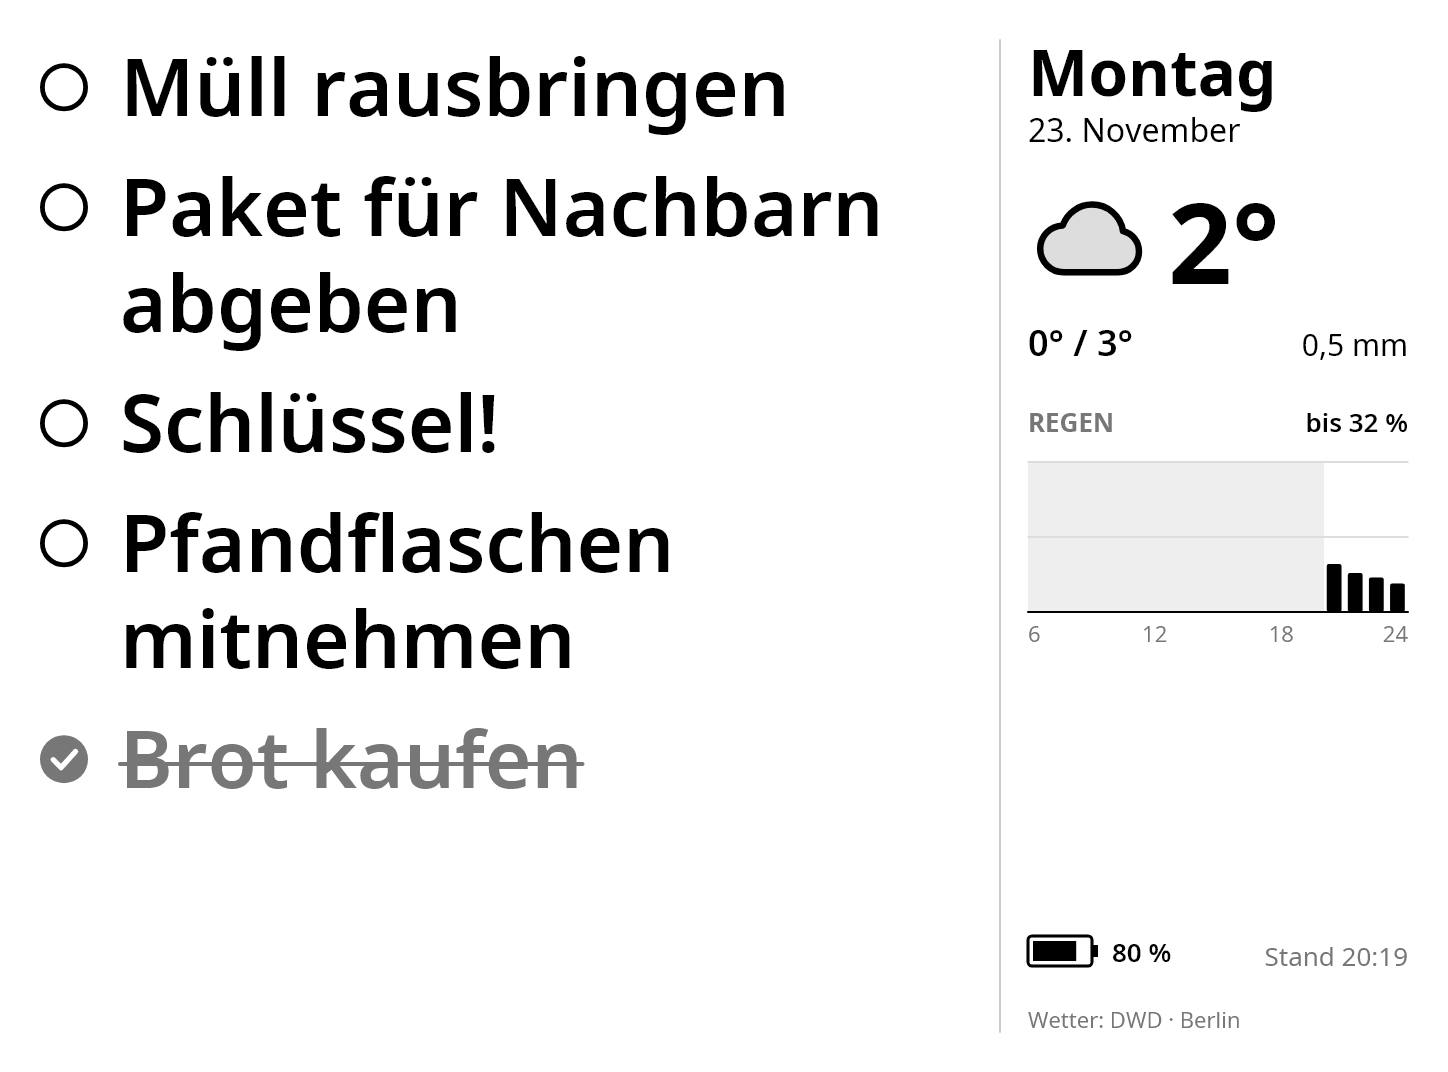
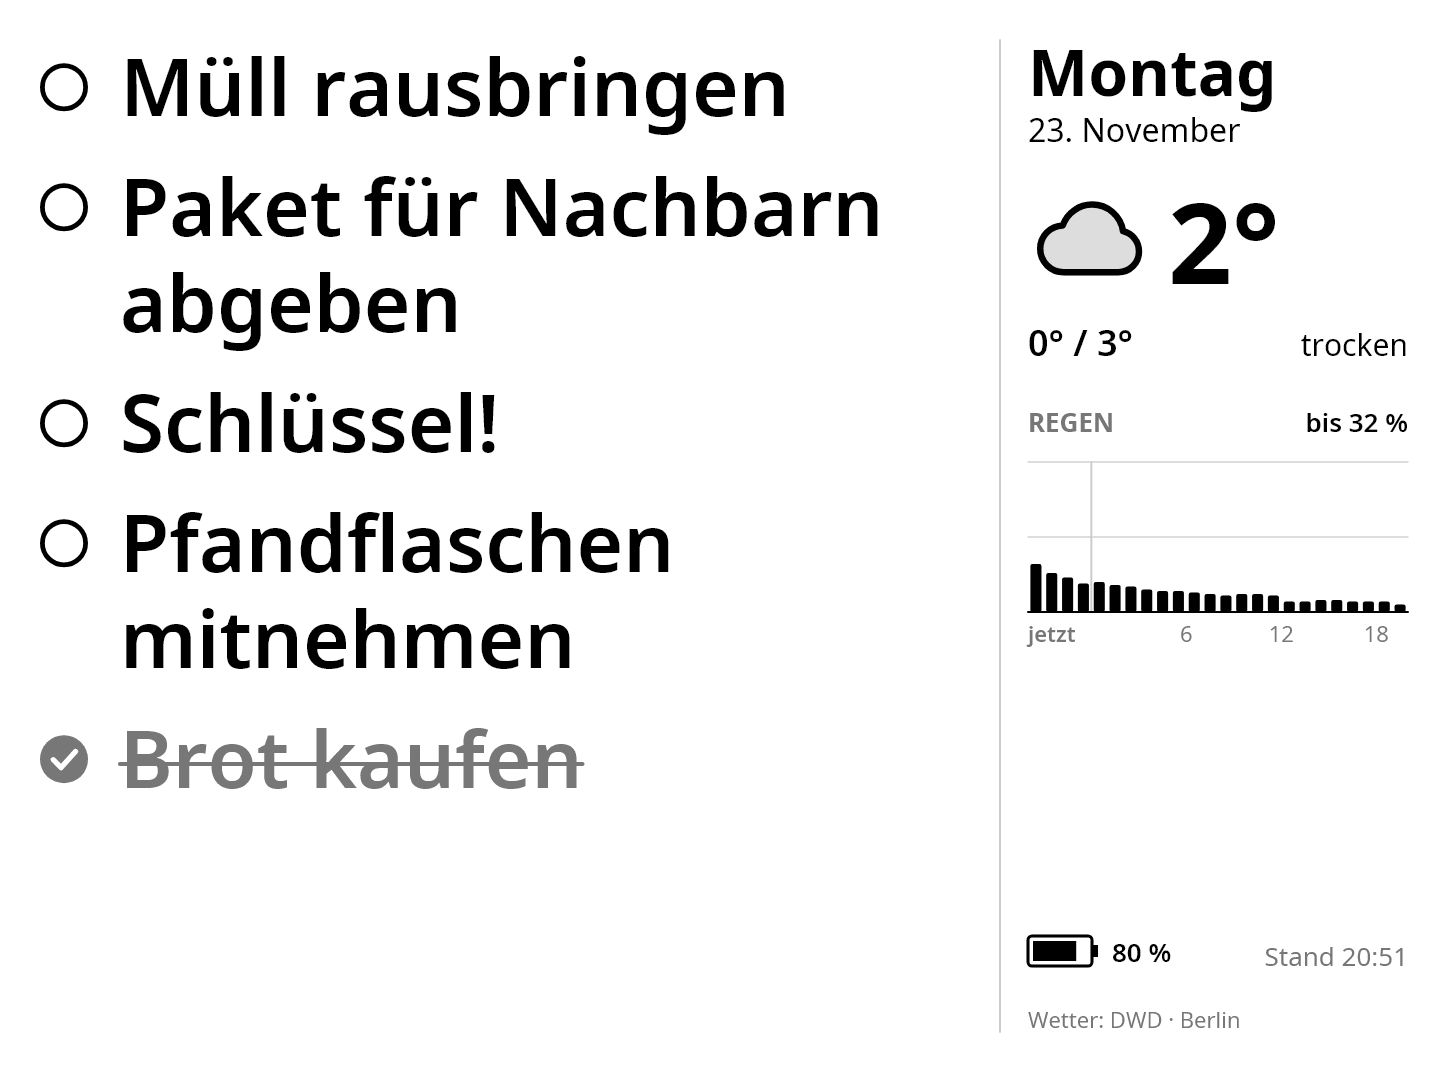
Show the rain of the next 24 hours instead of today
The rain chart starts with the current hour and reaches into tomorrow,
with a line at midnight. Bright Sky has the hourly forecast of the DWD
for several days, so the data is there.

Claude-Session: https://claude.ai/code/session_01JtiMjfkFmRwehLSQ8BAAtq

Changed region(s): [[0.6837, 0.5233, 0.9634, 0.6157], [0.9012, 0.3078, 0.9634, 0.3386]]

diff --git a/server/src/Dashboard/Renderer.cs b/server/src/Dashboard/Renderer.cs
@@ -13,10 +13,10 @@ public sealed record Zone(string Id, int X, int Y, int Width, int Height);
 public sealed record NoteLine(long Id, string Text, bool Done);
 
 /// <summary>Everything the picture shows. Two equal models give the same picture (apart from the time of drawing).</summary>
-/// <param name="Hour">Local hour, for the hours of the rain chart that are over</param>
+/// <param name="Hour">Start of the current hour, where the rain chart begins</param>
 public sealed record ScreenModel(
    DateOnly Date,
-   int Hour,
+   DateTimeOffset Hour,
    string PlaceName,
    WeatherData? Weather,
    List<NoteLine> Notes,
@@ -57,14 +57,13 @@ public sealed class Renderer {
    private static readonly float[] s_noteSizes = [104, 92, 80, 68, 60];
    private const int MaxLinesPerNote = 3;
    private const float LineSpacing = 1.2f;
-   /// <summary>Rain chart: one bar per hour from FirstHour to midnight</summary>
-   private const int FirstHour = 6;
+   /// <summary>Rain chart: one bar per hour, starting with the current one</summary>
+   private const int ChartHours = 24;
 
    private static readonly CultureInfo s_german = CultureInfo.GetCultureInfo("de-DE");
    private static readonly SKColor s_black = SKColors.Black;
    private static readonly SKColor s_grey = new(0x77, 0x77, 0x77);
    private static readonly SKColor s_light = new(0xCC, 0xCC, 0xCC);
-   private static readonly SKColor s_shade = new(0xEE, 0xEE, 0xEE);
 
    private readonly Orientation m_orientation;
    private readonly SKTypeface m_regular;
@@ -88,7 +87,7 @@ public sealed class Renderer {
 
       DrawNotes(canvas, model.Notes, zones);
       Line(canvas, Divider, Margin, Divider, Bottom, 2, s_light);
-      DrawSide(canvas, model, localNow);
+      DrawSide(canvas, model, localNow, zone);
       zones.Add(Zone("refresh", Divider, 0, Width - Divider, Height));
 
       using var landscape = surface.Snapshot();
@@ -180,7 +179,7 @@ public sealed class Renderer {
 
    // --- Day and weather ---
 
-   private void DrawSide(SKCanvas canvas, ScreenModel model, DateTime localNow) {
+   private void DrawSide(SKCanvas canvas, ScreenModel model, DateTime localNow, TimeZoneInfo zone) {
       const float x = SideX;
       const float right = SideX + SideWidth;
       var date = model.Date.ToDateTime(TimeOnly.MinValue);
@@ -202,7 +201,7 @@ public sealed class Renderer {
             var rain = today.Precipitation > 0 ? $"{today.Precipitation.ToString("0.#", s_german)} mm" : "trocken";
             Text(canvas, rain, right, line, 30, m_regular, s_black, SKTextAlign.Right);
          }
-         DrawRain(canvas, weather.Hours, model.Hour, x, line + 50, right);
+         DrawRain(canvas, weather.Hours, model.Hour, zone, x, line + 50, right);
       }
 
       // Foot of the column: battery, time of the picture, source of the weather
@@ -212,10 +211,13 @@ public sealed class Renderer {
       Text(canvas, Fit($"Wetter: DWD · {model.PlaceName}", SideWidth, 22, m_regular), x, Bottom - 4, 22, m_regular, s_grey);
    }
 
-   /// <summary>Small bar chart of the probability of rain, one bar per hour from FirstHour to midnight.</summary>
-   private void DrawRain(SKCanvas canvas, List<WeatherHour> hours, int nowHour, float x, float top, float right) {
+   /// <summary>Small bar chart of the probability of rain, one bar per hour for the next 24 hours.</summary>
+   private void DrawRain(SKCanvas canvas, List<WeatherHour> hours, DateTimeOffset start, TimeZoneInfo zone, float x, float top, float right) {
       const float chartHeight = 150;
-      var coming = hours.Where(hour => hour.Hour >= FirstHour && hour.Hour >= nowHour && hour.PrecipitationProbability is not null).ToList();
+      var coming = hours
+         .Select(hour => (Slot: (int)Math.Round((hour.Time - start).TotalHours), hour.PrecipitationProbability))
+         .Where(hour => hour.Slot is >= 0 and < ChartHours && hour.PrecipitationProbability is not null)
+         .ToList();
       var chartTop = Heading(canvas, "Regen", x, top) + 14;
       if (coming.Count > 0) {
          var highest = coming.Max(hour => hour.PrecipitationProbability!.Value);
@@ -223,26 +225,28 @@ public sealed class Renderer {
       }
 
       var baseline = chartTop + chartHeight;
-      var slot = (right - x) / (24 - FirstHour);
-      // The hours that are over are shaded
-      if (nowHour > FirstHour) {
-         using var shade = Fill(s_shade);
-         canvas.DrawRect(SKRect.Create(x, chartTop, (Math.Min(nowHour, 24) - FirstHour) * slot, chartHeight), shade);
-      }
-      // Grid: 100 % and 50 % light, the base line dark
+      var slot = (right - x) / ChartHours;
+      // Grid: 100 % and 50 % light, midnight as a line from top to bottom, the base line dark
       Line(canvas, x, chartTop, right, chartTop, 1, s_light);
       Line(canvas, x, chartTop + chartHeight / 2, right, chartTop + chartHeight / 2, 1, s_light);
+      for (var i = 1; i < ChartHours; i++) {
+         if (TimeZoneInfo.ConvertTime(start.AddHours(i), zone).Hour == 0)
+            Line(canvas, x + i * slot, chartTop, x + i * slot, baseline, 2, s_light);
+      }
       using (var bar = Fill(s_black)) {
-         foreach (var hour in coming) {
-            var height = Math.Max(3, chartHeight * Math.Clamp(hour.PrecipitationProbability!.Value, 0, 100) / 100f);
-            var left = x + (hour.Hour - FirstHour) * slot + slot * 0.15f;
-            canvas.DrawRoundRect(SKRect.Create(left, baseline - height, slot * 0.7f, height), 2, 2, bar);
+         foreach (var (index, probability) in coming) {
+            var height = Math.Max(3, chartHeight * Math.Clamp(probability!.Value, 0, 100) / 100f);
+            canvas.DrawRoundRect(SKRect.Create(x + index * slot + slot * 0.15f, baseline - height, slot * 0.7f, height), 2, 2, bar);
          }
       }
       Line(canvas, x, baseline, right, baseline, 2, s_black);
-      foreach (var hour in new[] { 6, 12, 18, 24 }) {
-         var align = hour == FirstHour ? SKTextAlign.Left : hour == 24 ? SKTextAlign.Right : SKTextAlign.Center;
-         Text(canvas, $"{hour}", x + (hour - FirstHour) * slot, baseline + 30, 22, m_regular, s_grey, align);
+
+      // "jetzt" at the start, then the full hours divisible by six, as far as they keep clear of it and of the end
+      Text(canvas, "jetzt", x, baseline + 30, 22, m_semiBold, s_grey);
+      for (var i = 5; i < ChartHours; i++) {
+         var local = TimeZoneInfo.ConvertTime(start.AddHours(i), zone).Hour;
+         if (local % 6 == 0)
+            Text(canvas, $"{local}", x + i * slot, baseline + 30, 22, m_regular, s_grey, SKTextAlign.Center);
       }
       if (coming.Count == 0)
          Text(canvas, "keine Angabe", (x + right) / 2, chartTop + chartHeight / 2 - 10, 26, m_regular, s_grey, SKTextAlign.Center);

diff --git a/server/src/Dashboard/Weather.cs b/server/src/Dashboard/Weather.cs
@@ -10,13 +10,15 @@ namespace Dashboard;
 public sealed record WeatherNow(double? Temperature, string? Icon, double? WindKmh, int? Humidity);
 /// <summary>Today as a whole. The probability of rain is the highest of the hours that have one.</summary>
 public sealed record WeatherToday(double? Min, double? Max, double Precipitation, int? PrecipitationProbability);
-/// <param name="Hour">Local hour of the day, 0 to 23</param>
+/// <param name="Time">Start of the hour</param>
 /// <param name="PrecipitationProbability">Only for hours of the forecast, null for hours that are already over</param>
-public sealed record WeatherHour(int Hour, int? PrecipitationProbability);
+public sealed record WeatherHour(DateTimeOffset Time, int? PrecipitationProbability);
 public sealed record WeatherData(DateTimeOffset FetchedAt, WeatherNow Now, WeatherToday? Today, List<WeatherHour> Hours);
 
 /// <summary>Fetches the weather every 30 minutes and whenever the place changes.</summary>
 public sealed class WeatherService(IHttpClientFactory httpClients, Store store, ILogger<WeatherService> logger) : BackgroundService {
+   /// <summary>Hours from the current one on. A day for the chart and some more, because the data is fetched only every 30 minutes.</summary>
+   public const int HoursAhead = 30;
    public const string BaseUrl = "https://api.brightsky.dev/";
    private static readonly TimeSpan s_interval = TimeSpan.FromMinutes(30);
    private static readonly TimeSpan s_retry = TimeSpan.FromMinutes(5);
@@ -68,17 +70,18 @@ public sealed class WeatherService(IHttpClientFactory httpClients, Store store, 
          Number(now, "wind_speed_10") ?? Number(now, "wind_speed_30") ?? Number(now, "wind_speed_60"),
          (int?)Number(now, "relative_humidity"));
 
-      // Only today: the hours from midnight to midnight, local time
-      var range = $"date={today:yyyy-MM-dd}&last_date={today.AddDays(1):yyyy-MM-dd}&tz={Uri.EscapeDataString(settings.TimeZone)}";
+      // Today from midnight on and the hours ahead, which reach into tomorrow
+      var range = $"date={today:yyyy-MM-dd}&last_date={today.AddDays(3):yyyy-MM-dd}&tz={Uri.EscapeDataString(settings.TimeZone)}";
       using var forecast = JsonDocument.Parse(await client.GetStringAsync($"weather?{place}&{range}", cancellation));
-      var hours = new List<(DateTime Local, double? Temperature, double? Precipitation, int? Probability)>();
+      var all = new List<(DateTimeOffset Time, double? Temperature, double? Precipitation, int? Probability)>();
       foreach (var hour in forecast.RootElement.GetProperty("weather").EnumerateArray()) {
-         var time = DateTimeOffset.Parse(hour.GetProperty("timestamp").GetString()!, CultureInfo.InvariantCulture);
-         var local = TimeZoneInfo.ConvertTime(time, zone).DateTime;
-         if (DateOnly.FromDateTime(local) != today)
-            continue;
-         hours.Add((local, Number(hour, "temperature"), Number(hour, "precipitation"), (int?)Number(hour, "precipitation_probability")));
+         all.Add((
+            DateTimeOffset.Parse(hour.GetProperty("timestamp").GetString()!, CultureInfo.InvariantCulture),
+            Number(hour, "temperature"),
+            Number(hour, "precipitation"),
+            (int?)Number(hour, "precipitation_probability")));
       }
+      var hours = all.Where(hour => DateOnly.FromDateTime(TimeZoneInfo.ConvertTime(hour.Time, zone).DateTime) == today).ToList();
 
       WeatherToday? summary = null;
       if (hours.Count > 0) {
@@ -89,14 +92,14 @@ public sealed class WeatherService(IHttpClientFactory httpClients, Store store, 
             hours.Sum(hour => hour.Precipitation ?? 0),
             hours.Max(hour => hour.Probability));
       }
-      // One value per hour; the hour that is there twice when the clocks go back keeps the higher one
-      var byHour = hours
-         .GroupBy(hour => hour.Local.Hour)
-         .OrderBy(group => group.Key)
-         .Select(group => new WeatherHour(group.Key, group.Max(hour => hour.Probability)))
+      var nowUtc = DateTimeOffset.UtcNow;
+      var currentHour = new DateTimeOffset(nowUtc.Year, nowUtc.Month, nowUtc.Day, nowUtc.Hour, 0, 0, TimeSpan.Zero);
+      var ahead = all
+         .Where(hour => hour.Time >= currentHour && hour.Time < currentHour.AddHours(HoursAhead))
+         .Select(hour => new WeatherHour(hour.Time, hour.Probability))
          .ToList();
 
-      return new WeatherData(DateTimeOffset.UtcNow, weatherNow, summary, byHour);
+      return new WeatherData(nowUtc, weatherNow, summary, ahead);
    }
 
    private static double? Number(JsonElement element, string name) =>

diff --git a/server/src/Dashboard/Screen.cs b/server/src/Dashboard/Screen.cs
@@ -158,6 +158,9 @@ public sealed class Screen : IHostedService, IDisposable {
       var device = m_device;
       // The battery only in steps of 5 %, so that not every percent costs a new picture
       var battery = device.Battery is { } level ? (int)Math.Round(level / 5.0) * 5 : (int?)null;
-      return new ScreenModel(DateOnly.FromDateTime(now), now.Hour, settings.PlaceName, m_weather.Current, notes, battery, device.Charging);
+      // The rain chart starts with the current hour, so the picture changes once an hour
+      var utc = DateTimeOffset.UtcNow;
+      var hour = new DateTimeOffset(utc.Year, utc.Month, utc.Day, utc.Hour, 0, 0, TimeSpan.Zero);
+      return new ScreenModel(DateOnly.FromDateTime(now), hour, settings.PlaceName, m_weather.Current, notes, battery, device.Charging);
    }
 }

diff --git a/server/README.md b/server/README.md
@@ -29,7 +29,8 @@ The interface is described in [`API.md`](API.md).
 
 - **Data:** the notes, settings and a log of the Kindle's battery, in an SQLite database. A checked-off note is
   deleted after 12 hours.
-- **Weather:** current weather and today's hours (temperature, probability of rain) from [Bright Sky](https://brightsky.dev)
+- **Weather:** current weather, today's lowest and highest temperature and the probability of rain for the next 24
+  hours from [Bright Sky](https://brightsky.dev)
   (data of the Deutscher Wetterdienst, so it covers Germany and the regions around it), fetched every 30 minutes.
 - **Picture:** drawn with [SkiaSharp](https://github.com/mono/SkiaSharp) in landscape (1448 × 1072), with
   anti-aliasing and reduced to the 16 grey levels of the e-ink display. For the Kindle it is turned into the portrait
